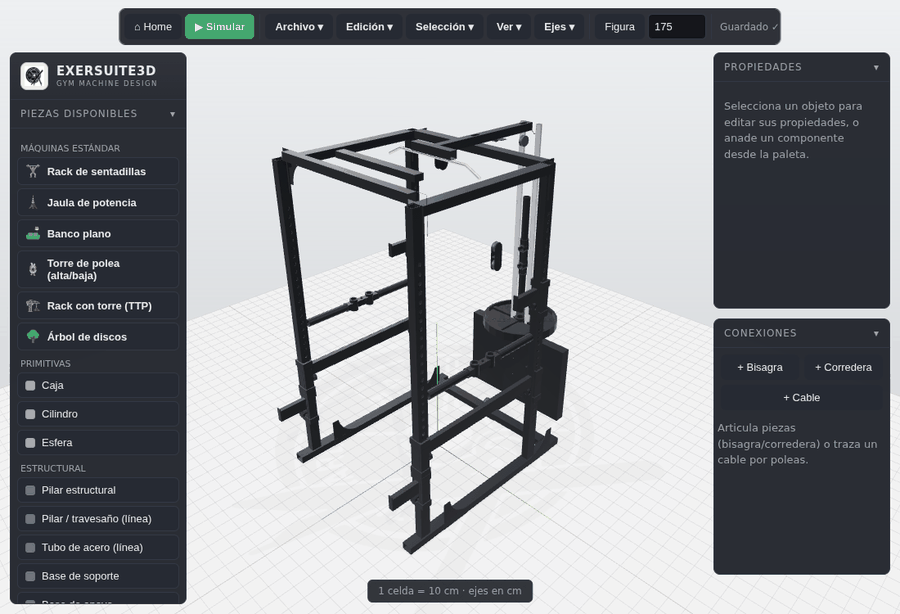
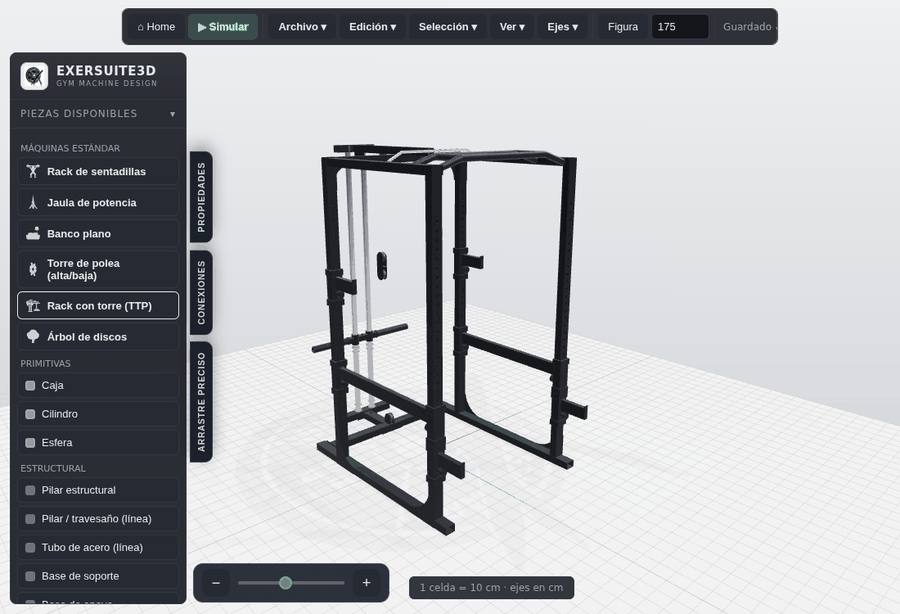
FAQ: construir-1 y maniqui-1 re-capturadas del build actual
- construir-1 reciclaba una captura del 21-jul (fin-1-ttp) con el rack TTP
  en el ensamblaje ANTERIOR a las correcciones del prefab de fábrica del
  22–24-jul (torre/tubos guía, multiagarre, techo del rack): el motor
  siempre estuvo bien — la imagen ilustrativa era la obsoleta. Ahora se
  captura el "Rack con torre (TTP)" tal como lo inserta la app hoy
  (34 piezas, configuración corregida). La jaula (construir-2) ya era
  correcta y se conserva.
- maniqui-1 mostraba las paredes y el techo del espacio personalizado en
  vez de la figura: ahora muestra el maniquí de pie con el panel de
  Posturas abierto (postura, Agarrar maniquí, Simetría L↔R, Apoyar mano).
- Cápsula del tiempo: 3 capturas nuevas (rack actual, jaula actual,
  maniquí) e índice al día.

Claude-Session: https://claude.ai/code/session_014fW5t7kk9L1bzdCPk4pmbH

diff --git a/docs/capsula-del-tiempo/README.md b/docs/capsula-del-tiempo/README.md
@@ -301,9 +301,9 @@ v0.2.6: márgenes del asistente, bloques/pila de pesos guiados por tubos con ori
 - [`z2-3-sim-inicio.png`](2026-07-24/z2-3-sim-inicio.png)
 - [`z2-4-sim-final.png`](2026-07-24/z2-4-sim-final.png)
 
-## 2026-07-25 — 14 capturas
+## 2026-07-25 — 17 capturas
 
-v0.2.8: paredes del canvas completo como caras suelo-techo (trapezoidales bajo techumbre inclinada, altura de usuario sin techo), techo como CARA PLANA sin espesor, cables de poleas en azul oscuro y re-escenificación de las imágenes del FAQ (calce, pesos, discos montados, espacio y física).
+v0.2.8: paredes del canvas completo como caras suelo-techo (trapezoidales bajo techumbre inclinada, altura de usuario sin techo), techo como CARA PLANA sin espesor, cables de poleas en azul oscuro y re-escenificación de las imágenes del FAQ (calce, pesos, discos montados, espacio, física, construir y maniquí — construir-1 usaba una captura del 21-jul anterior a las correcciones del rack TTP, y maniqui-1 mostraba paredes/techo en vez del maniquí).
 
 - [`faq-1-calce.png`](2026-07-25/faq-1-calce.png)
 - [`faq-2-pesos.png`](2026-07-25/faq-2-pesos.png)
@@ -319,3 +319,6 @@ v0.2.8: paredes del canvas completo como caras suelo-techo (trapezoidales bajo t
 - [`v28-espacio-1.png`](2026-07-25/v28-espacio-1.png)
 - [`v28-fisica-1.png`](2026-07-25/v28-fisica-1.png)
 - [`v28-fisica-2.png`](2026-07-25/v28-fisica-2.png)
+- [`v28-construir-1.png`](2026-07-25/v28-construir-1.png)
+- [`v28-construir-2.png`](2026-07-25/v28-construir-2.png)
+- [`v28-maniqui-1.png`](2026-07-25/v28-maniqui-1.png)

diff --git a/CHANGELOG.md b/CHANGELOG.md
@@ -45,6 +45,13 @@ Instructivo ilustrado queda con imágenes fieles a cada pestaña.
   inclinado con paredes al ras) y física (cable azul por roldana y cable
   en error), y los textos de esas pestañas describen las propiedades
   nuevas.
+- **construir-1 y maniqui-1 del FAQ re-capturadas del build actual**: la
+  imagen de construir reciclaba una captura del 21-jul con el rack TTP en
+  su ensamblaje ANTERIOR a las correcciones del prefab de fábrica (torre,
+  multiagarre, techo del rack), y la del maniquí mostraba las paredes y el
+  techo del espacio en vez de la figura. Ahora: rack con torre insertado
+  tal como lo produce la app hoy, y maniquí en pie con el panel de
+  Posturas abierto.
 
 ## [0.2.7] — 2026-07-24
 
